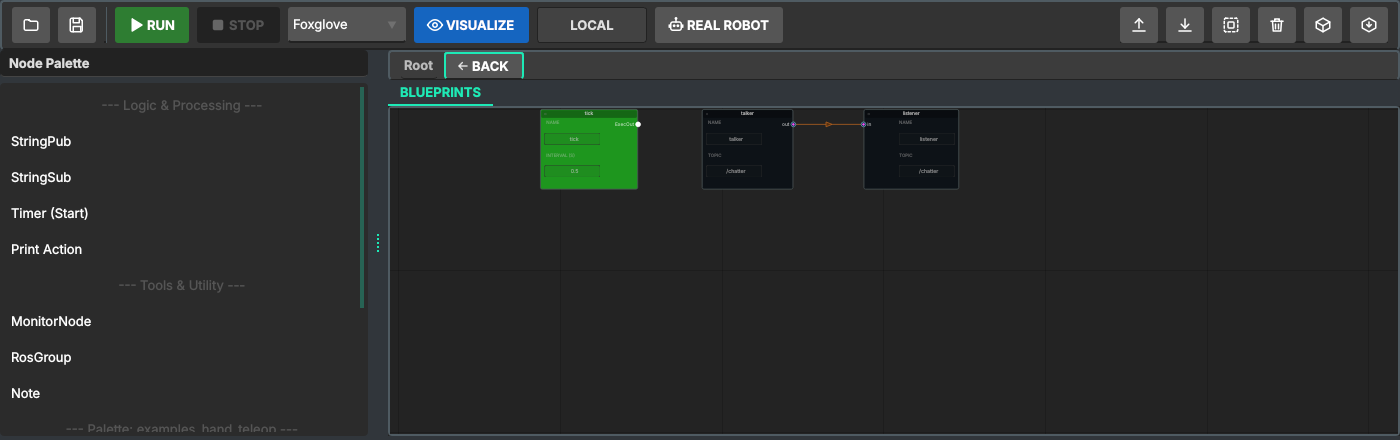
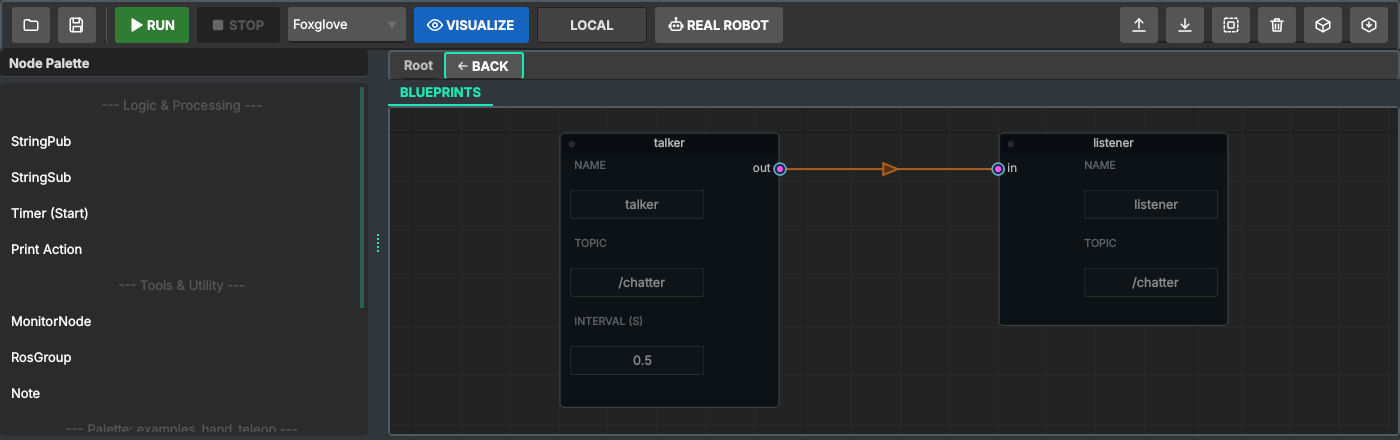
docs: tutorials chapter 3 (C++ publisher/subscriber), chapter 2 updated
- 2: rewritten for the fixed behaviour (no Timer node, the wire sets the
  topic), new screenshots from a real run.
- 3: C++ publisher/subscriber: what Studio generates instead of the
  hand-written package.xml / CMakeLists.txt, how colcon/source/ros2 run
  map to Run, the extra base dependencies, helpers without main(), the
  USER block. Built with colcon and run in ros:humble-ros-base; ros2 run
  checked as well.

Claude-Session: https://claude.ai/code/session_01HYy9Xdy4E61sWVbX4J9Nvi

diff --git a/docs/tutorials/02-publisher-subscriber-python.md b/docs/tutorials/02-publisher-subscriber-python.md
@@ -13,19 +13,18 @@ connects them because they use **the same topic name and message type**.
 
 Start from the Python project of [chapter 1](01-workspace-and-package.md).
 
-1. From the **Node Palette** drag three nodes onto the canvas:
-   **Timer (Start)**, **StringPub**, **StringSub**.
+1. From the **Node Palette** drag **StringPub** and **StringSub** onto the canvas.
 2. Fill the fields on the nodes:
 
    | Node | Name | Other fields |
    |---|---|---|
-   | Timer (Start) | `tick` | Interval (s): `0.5` |
-   | StringPub | `talker` | Topic: `/chatter` |
-   | StringSub | `listener` | Topic: `/chatter` |
+   | StringPub | `talker` | Topic: `/chatter`, Interval (s): `0.5` |
+   | StringSub | `listener` | (Topic is set by the wire in the next step) |
 
    *Name* is the ROS node name (what `ros2 node list` shows); the file on disk is named after the
    node's title on the canvas.
-3. Connect **out** of `talker` to **in** of `listener`.
+3. Connect **out** of `talker` to **in** of `listener`. The subscriber takes the publisher's
+   topic: the System Log says `'listener' now uses topic /chatter (wired to 'talker')`.
 4. **Run**. Studio saves, starts the session container and launches the nodes.
 
 ![The canvas](img/02_canvas.png)
@@ -35,57 +34,62 @@ double-click a row for its whole log.
 
 ![ROS2 Dashboard after Run](img/02_dashboard.png)
 
-`listener` prints `Heard: Py: 0`, `Py: 1`, ... twice a second. Python nodes appear as
-`python3-1`, `python3-2`, ... : these are launch's process names, numbered in the order of the
-launch file (`tick`, `talker`, `listener` here). `talker` itself does not log; only the listener does.
+`talker` prints `Publishing: "Py: 0"`, `listener` prints `Heard: Py: 0`, twice a second.
+Python nodes appear as `python3-1`, `python3-2`: these are launch's process names, numbered in the
+order of the launch file (`talker`, then `listener` here).
 
 ## What Studio generated
 
-`src/python/talker.py` (comments trimmed):
+`src/python/talker.py` (comments trimmed), the official publisher with other names:
 
 ```python
 class talker(Node):
     def __init__(self):
         super().__init__('talker')
         self.pub = self.create_publisher(String, '/chatter', 10)
-        self.trigger_sub = self.create_subscription(String, 'topic_1', self.trigger_callback, 10)
+        self.timer = self.create_timer(0.5, self.timer_callback)
         self.i = 0
 
-    def trigger_callback(self, msg):
-        out_msg = String()
-        out_msg.data = f"Py: {self.i}"
-        self.pub.publish(out_msg)
+    def timer_callback(self):
+        msg = String()
+        msg.data = f"Py: {self.i}"
+        self.pub.publish(msg)
+        self.get_logger().info(f'Publishing: "{msg.data}"')
         self.i += 1
 ```
 
-`src/python/listener.py` is the official subscriber almost line by line: `create_subscription(String,
-'/chatter', self.callback, 10)` and a callback that logs `Heard: ...`. `src/launch/project_launch.py`
-starts all three files.
+`src/python/listener.py` is the official subscriber: `create_subscription(String, '/chatter',
+self.callback, 10)` and a callback that logs `Heard: ...`. `src/launch/project_launch.py` starts both
+files.
 
-## Where Studio differs from the official tutorial
+## Topics, wires and the Topic field
 
-- **The publisher has no timer of its own.** In the official code the timer lives inside
-  `minimal_publisher`. Studio's palette splits *when* from *what*: **Timer (Start)** publishes a
-  tick on `topic_1`, and every node with a trigger subscription (here `talker`) acts on it.
-  One timer can drive several publishers. Without a Timer node on the canvas, `talker` never
-  publishes, and the listener stays silent. (The C++ publisher in chapter 3 has its own timer.)
-- **The wire does not create the topic. The Topic field does.** ROS connects nodes by topic name, and
-  Studio writes the *Topic* field into the code. The wire shows the connection on the canvas, but if
-  the two Topic fields differ, the nodes will not talk even with a wire between them. Keep them equal.
-- **Your edits stay.** Double-click a node to open its file in your editor. As long as the code is
-  Studio's unchanged template, Studio fills in the names on Save; once you edit it, your version is
-  kept. From then on the code decides, not the node's fields: the ROS node name is whatever
-  `super().__init__(...)` says, the topic is whatever `create_publisher` says.
+ROS does not know about the wire. It connects a publisher and a subscriber when their **topic
+names and message types match**, and Studio writes the *Topic* field into the code. The wire keeps
+the fields in step:
+
+- connecting a wire gives the subscriber the publisher's topic;
+- changing a publisher's topic changes it on every node wired to it;
+- if wired nodes still end up with different topics (you edited the subscriber's field), Save
+  warns in the System Log: *'talker' and 'listener' are wired but use different topics*.
+
+Nodes without a wire talk too, as long as the topics match: that is how ROS works, the wire is
+for you.
+
+## Your code stays yours
+
+Double-click a node to open its file in your editor. As long as the code is Studio's unchanged
+template, Studio fills in the names from the node's fields on Save. Once you edit it, your version
+is kept, and from then on the code decides, not the fields: the ROS node name is whatever
+`super().__init__(...)` says, the topic is whatever `create_publisher` says.
 
 ### Variant: exactly the official publisher
 
-1. Double-click `talker` and replace the whole file with the tutorial's `publisher_member_function.py`.
+1. Double-click `talker` and replace the whole file with the tutorial's
+   `publisher_member_function.py`.
 2. In it, change the topic `'topic'` to `'/chatter'`, the one `listener` subscribes to.
-3. Delete the Timer node: the official publisher has its own timer. On Save, Studio moves the
-   no longer used `tick.py` to `.blueprint/trash/` instead of deleting it.
-4. **Run**. The dashboard shows `Publishing: "Hello World: 0"` from the publisher and
-   `Heard: Hello World: 0` from `listener`; `ros2 node list` now shows `/minimal_publisher`
-   instead of `/talker`, the name from the code.
+3. **Run**. The dashboard shows `Publishing: "Hello World: 0"` and `Heard: Hello World: 0`;
+   `ros2 node list` now shows `/minimal_publisher` instead of `/talker`, the name from the code.
 
 ## Check it like the official tutorial
 
@@ -95,8 +99,8 @@ ROS 2 environment, so the same commands work there:
 ```bash
 docker exec -it ros2_orchestrator_session bash
 source /opt/ros/humble/setup.bash
-ros2 node list          # /listener  /talker  /tick
-ros2 topic list         # /chatter  /parameter_events  /rosout  /topic_1
+ros2 node list          # /listener  /talker
+ros2 topic list         # /chatter  /parameter_events  /rosout
 ros2 topic echo /chatter
 ```
 
@@ -105,9 +109,9 @@ ros2 topic echo /chatter
 | Concept (official tutorial) | Where it is in Studio |
 |---|---|
 | publisher, `create_publisher(type, topic, qos)` | StringPub node, *Topic* field |
+| timer, `create_timer(period, callback)` | StringPub node, *Interval* field |
 | subscriber and callback | StringSub node, `callback` in its file |
-| timer | Timer (Start) node, *Interval* field |
-| nodes are matched by topic name and type | the *Topic* fields, not the wire |
+| nodes are matched by topic name and type | the *Topic* fields; the wire keeps them equal |
 | `setup.py` entry points, `ros2 run` | not used: the launch file runs the scripts ([chapter 1](01-workspace-and-package.md)) |
 
-Next: the same pair in C++ (chapter 3, planned).
+Next: the same pair in C++, [chapter 3](03-publisher-subscriber-cpp.md).

diff --git a/docs/tutorials/03-publisher-subscriber-cpp.md b/docs/tutorials/03-publisher-subscriber-cpp.md
@@ -1,0 +1,110 @@
+# 3. Publisher and subscriber (C++)
+
+Official tutorial: [Writing a simple publisher and subscriber (C++)](https://docs.ros.org/en/humble/Tutorials/Beginner-Client-Libraries/Writing-A-Simple-Cpp-Publisher-And-Subscriber.html)
+
+## What the official tutorial does
+
+The same pair as in [chapter 2](02-publisher-subscriber-python.md), in C++: `publisher_member_function.cpp`
+publishes "Hello, world! N" every 500 ms, `subscriber_member_function.cpp` prints what it hears.
+Unlike Python, C++ has to be compiled, so the tutorial also edits `package.xml` (dependencies) and
+`CMakeLists.txt` (`find_package`, `add_executable`, `ament_target_dependencies`, `install`), runs
+`colcon build`, and starts the nodes with `ros2 run cpp_pubsub talker`.
+
+## In Studio
+
+1. Create a **C++** project `cpp_pubsub_tutorial` ([chapter 1](01-workspace-and-package.md)).
+2. Drag **StringPub** and **StringSub** from the palette. On a C++ project the palette offers
+   the C++ versions of the same nodes.
+3. Names `talker` and `listener`; Topic `/chatter` and Interval `0.5` on `talker`.
+4. Wire **out** to **in**: `listener` takes the topic, as in chapter 2.
+5. **Run**. Studio saves, generates `CMakeLists.txt` and `package.xml`, runs `colcon build` in the
+   container (the build output goes to the System Log), then launches both nodes.
+
+![The canvas](img/03_canvas.png)
+
+![ROS2 Dashboard after Run](img/03_dashboard.png)
+
+C++ nodes appear under their executable names (`talker-1`, `listener-2`), not as `python3-N`:
+the launch file starts them as ROS nodes from the package.
+
+## What Studio generated
+
+`src/cpp/talker.cpp`:
+
+```cpp
+class talker : public rclcpp::Node {
+public:
+    talker() : Node("talker"), count_(0) {
+        publisher_ = this->create_publisher<std_msgs::msg::String>("/chatter", 10);
+        timer_ = this->create_wall_timer(std::chrono::duration<double>(0.5), [this](){
+            auto msg = std_msgs::msg::String();
+            msg.data = "Cpp: " + std::to_string(count_++);
+            publisher_->publish(msg);
+            RCLCPP_INFO(this->get_logger(), "Publishing: '%s'", msg.data.c_str());
+        });
+    }
+    ...
+};
+```
+
+The official code puts the timer callback into a member function bound with `std::bind`; Studio's
+template uses a lambda. Both are ordinary `rclcpp`.
+
+`src/CMakeLists.txt`, the part the official tutorial writes by hand:
+
+```cmake
+find_package(rclcpp REQUIRED)
+find_package(std_msgs REQUIRED)
+...
+add_executable(talker cpp/talker.cpp)
+ament_target_dependencies(talker ... rclcpp ... std_msgs)
+install(TARGETS talker DESTINATION lib/${PROJECT_NAME})
+```
+
+and `src/package.xml` with `<depend>rclcpp</depend>`, `<depend>std_msgs</depend>`.
+
+## How the build steps map
+
+| Official tutorial | Studio |
+|---|---|
+| add `<depend>` to `package.xml` | generated from the `#include`s of your nodes |
+| `find_package`, `add_executable`, `ament_target_dependencies`, `install` | generated: one executable per `.cpp` with `main()` |
+| `colcon build --packages-select cpp_pubsub` | **Run** builds the whole workspace in the container |
+| `source install/setup.bash` | done by **Run** |
+| `ros2 run cpp_pubsub talker` | **Run** starts the launch file; `ros2 run` works too (below) |
+
+## Where Studio differs (and what you still need to know)
+
+- **Extra dependencies.** Every executable is linked with a base set: `rclcpp`, `std_msgs`, and also
+  `geometry_msgs`, `sensor_msgs`, `rclcpp_action`, `rclcpp_lifecycle`. The official tutorial needs only
+  the first two. It builds and runs the same; the build is a little longer.
+- **Compile errors are yours to read.** Studio runs colcon and shows its output in the System Log.
+  A typo in your `.cpp` fails the build exactly like in the terminal, with the same compiler message.
+- **Helpers without `main()` are not nodes.** A `.cpp` without `int main(` is compiled into the nodes
+  that `#include` its header, and is not started by launch.
+- **Your own CMake goes into the USER block** at the end of `CMakeLists.txt` (chapter 1): extra
+  libraries, `target_sources`, compile options. The rest of the file is rewritten on every Save.
+
+## Check it like the official tutorial
+
+C++ nodes are a real package, so the official commands work in the session container:
+
+```bash
+docker exec -it ros2_orchestrator_session bash
+source /opt/ros/humble/setup.bash
+source /root/ros2_ws/install/setup.bash
+ros2 run cpp_pubsub_tutorial talker      # a second publisher, from the terminal
+ros2 topic echo /chatter
+```
+
+## What you learned
+
+| Concept (official tutorial) | Where it is in Studio |
+|---|---|
+| `rclcpp::Node` subclass with a publisher and a wall timer | StringPub node (C++), *Topic* and *Interval* fields |
+| subscription with a callback | StringSub node (C++) |
+| `package.xml` dependencies | generated from `#include`s |
+| `CMakeLists.txt` executables and install rules | generated; your additions in the USER block |
+| `colcon build`, `source`, `ros2 run` | **Run**; `ros2 run` also works in the container |
+
+Next: service and client (chapter 4).

diff --git a/docs/tutorials/README.md b/docs/tutorials/README.md
@@ -24,7 +24,7 @@ Read the official tutorial alongside: it explains the concepts, these chapters s
 |---|---|---|---|
 | 1 | [Workspace, package and build](01-workspace-and-package.md) | Creating a workspace · Creating a package · Using colcon to build packages | ready |
 | 2 | [Publisher and subscriber (Python)](02-publisher-subscriber-python.md) | Writing a simple publisher and subscriber (Python) | ready |
-| 3 | Publisher and subscriber (C++) | Writing a simple publisher and subscriber (C++) | planned |
+| 3 | [Publisher and subscriber (C++)](03-publisher-subscriber-cpp.md) | Writing a simple publisher and subscriber (C++) | ready |
 | 4 | Service and client | Writing a simple service and client (C++ / Python) | planned |
 | 5 | Parameters, tuned live | Using parameters in a class (C++ / Python) | planned |
 | 6 | Launch files | Launch: Creating a launch file | planned |
